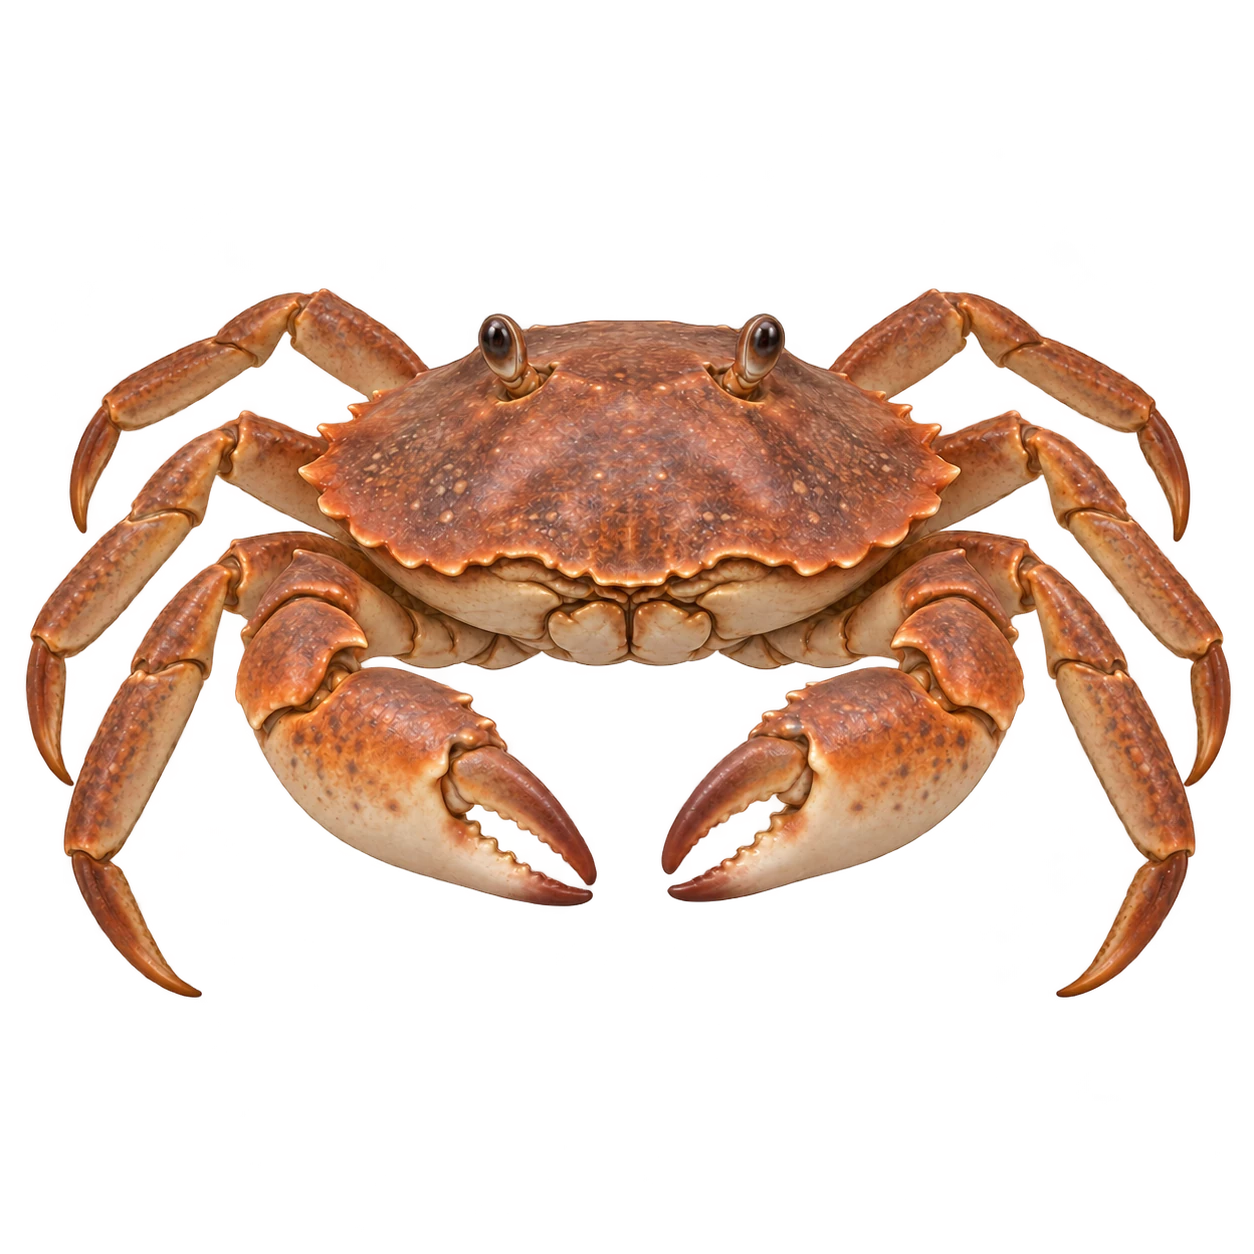
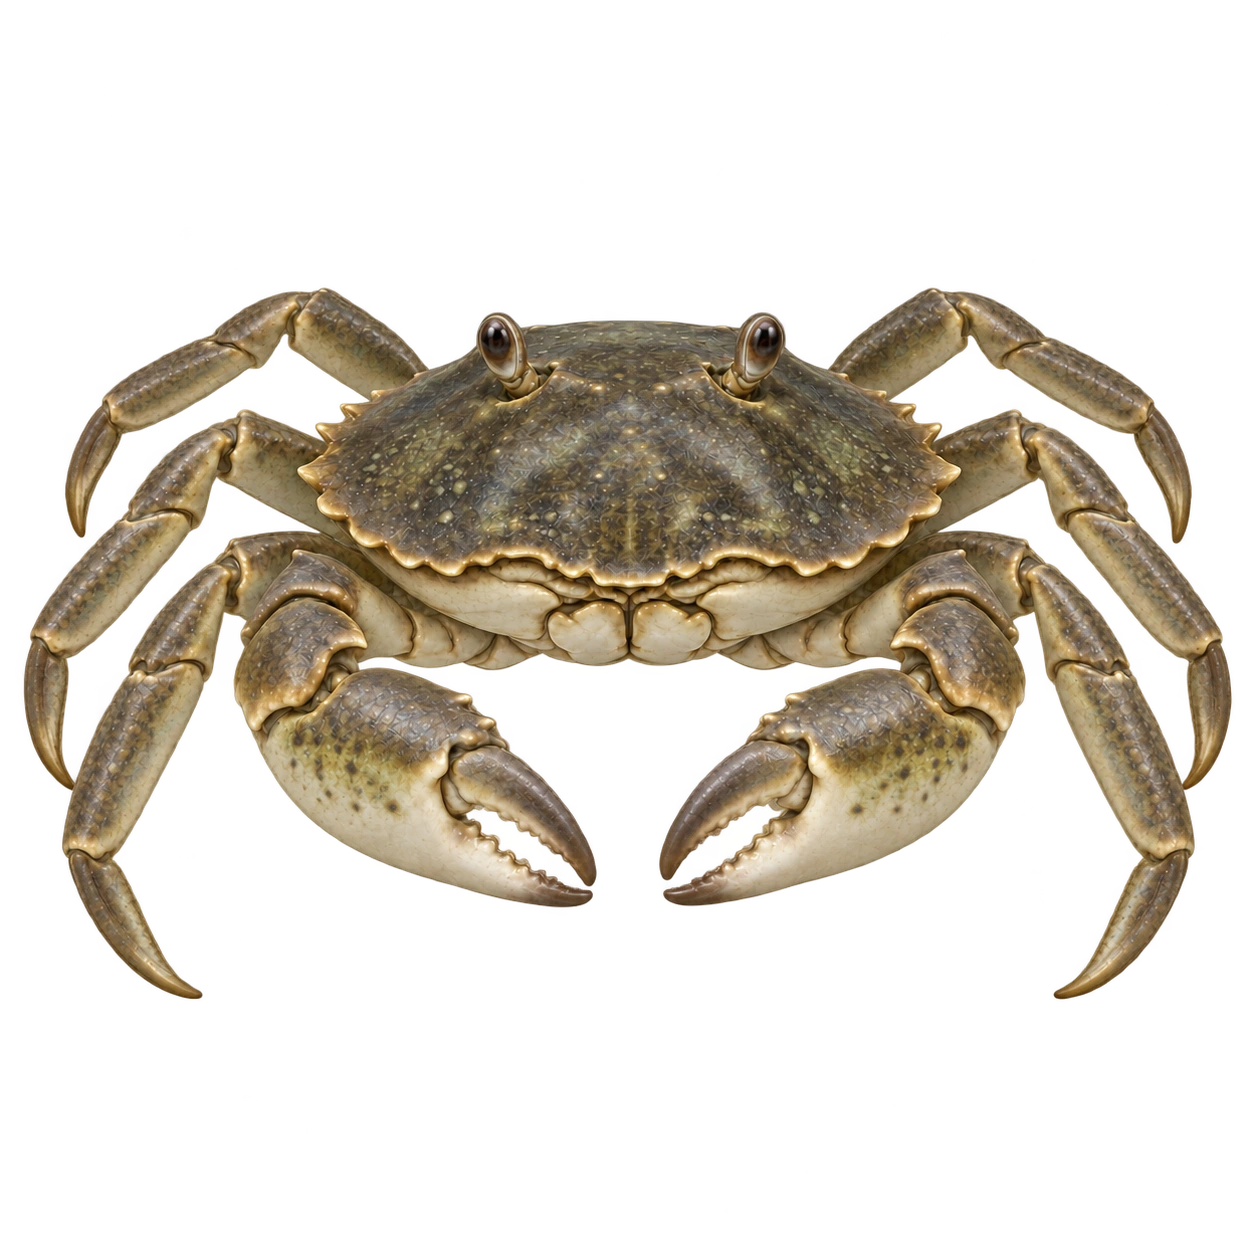
Refine glass layout and restore natural live crab colours

Changed region(s): [[0.0, 0.2177, 0.9952, 0.8086]]

diff --git a/src/glass-ui.css b/src/glass-ui.css
@@ -1,0 +1,76 @@
+
+/* Translucent framing; specimen art and its semantic colours stay untouched. */
+#app :is(.btn.secondary,.btn.icon-btn,.hud-btn,.hud-chip,.mission-footer,.motion-action-dock,.motion-photo-toolbar,.quest-panel,.studio-toolbar){background:rgba(255,253,245,.8);border-color:#ffffffb8;box-shadow:0 5px 18px #193e2e1c,inset 0 1px 0 #ffffffa0;backdrop-filter:blur(9px);-webkit-backdrop-filter:blur(9px)}
+#app .btn.primary{background:linear-gradient(135deg,#2d5542ed,#214633df);box-shadow:0 4px 14px #163b2b24;border:1px solid #aec5a77a}
+#app .topbar{background:#fbfaf3d9;backdrop-filter:blur(10px);-webkit-backdrop-filter:blur(10px)}
+#app #main.mission-page .mission-guide{background:#fffdf5c9;border-color:#ffffff9c;box-shadow:0 5px 16px #173d4014;backdrop-filter:blur(9px);-webkit-backdrop-filter:blur(9px)}
+dialog:not(:has(.creative-studio,.research-diary,.story-video)){background:#fffdf5f0;border-color:#ffffffcc;box-shadow:0 18px 48px #163b2b33;backdrop-filter:blur(12px);-webkit-backdrop-filter:blur(12px)}
+#app :is(.top-actions,.dialog-actions,.panel-tabs){gap:10px;flex-wrap:wrap}
+@media(prefers-reduced-transparency:reduce){#app :is(.btn.secondary,.btn.icon-btn,.hud-btn,.hud-chip,.mission-footer,.mission-guide){background:#fffdf5}}
+
+#app #main#main.commission-page .request-card{background:#fffbeddb;border-color:#ffffffbf;box-shadow:0 12px 32px #193e2e24;backdrop-filter:blur(10px);-webkit-backdrop-filter:blur(10px)}
+#app #main#main :is(.btn.secondary,.btn.icon-btn,.hud-btn,.commission-tabs .btn:not(.selected),.deck-nav .btn){background:#fffdf5cc;border-color:#ffffffb3;box-shadow:0 4px 14px #193e2e1c;backdrop-filter:blur(8px);-webkit-backdrop-filter:blur(8px)}
+@media(max-width:600px){#app .map-next{bottom:124px;right:10px;max-width:calc(100% - 20px)}#app .map-next>.btn{white-space:normal;max-width:100%}}
+#app #main#main.commission-page .commission-layout{background:#fffbeddb;border-color:#ffffffbf;box-shadow:0 12px 32px #193e2e24;backdrop-filter:blur(10px);-webkit-backdrop-filter:blur(10px)}
+#app #main#main.commission-page .request-card{background:transparent;box-shadow:none;backdrop-filter:none;-webkit-backdrop-filter:none}
+#app .deck-nav .deck-chips{min-width:0;overflow-x:auto;overflow-y:hidden;flex:1 1 0;scrollbar-width:thin}
+#app .deck-nav>.btn{flex-shrink:0}
+#app :is(.guide-buddy,.commission-feedback):not(.open)>[data-npc-audio]{display:none}
+#app :is(.guide-buddy,.commission-feedback).open>[data-npc-audio]{position:absolute;bottom:calc(100% + 8px);left:0;z-index:5;width:260px;max-width:calc(100vw - 32px);padding:10px;background:#fffdf5f5;border:1px solid #b7c8ad;border-radius:14px;box-shadow:0 8px 24px #193e2e33}
+#app .commission-page .commission-feedback .buddy-toggle{height:56px;min-height:56px;width:56px;min-width:56px}
+#app .commission-page .commission-feedback .buddy-toggle img{max-height:56px;width:auto}
+@media(max-width:600px){#app #main#main.commission-page{padding-bottom:144px!important}#app .commission-page .commission-feedback{bottom:80px!important;left:calc(50% - 28px)!important}#app .ending-screen{max-width:100%;overflow-x:hidden}}
+
+#app :is(.guide-buddy,.commission-feedback) p [data-npc-audio]{display:flex;align-items:center;flex-wrap:wrap;gap:6px;border-top:1px solid #b7c8ad;padding-top:8px;margin-top:8px}
+#app #main :is(.request-card,.client-card,.animal-card,.clue-card,.evidence-panel,.part-card,.settings-card){border-radius:18px}
+#app #main :is(.record-options,.choices,.card-pool,.panel-tabs){gap:10px}
+/* Reserve a separate footer lane; content scrolls inside the paper above it. */
+#app #main#main.commission-page{padding-bottom:94px!important}
+#app #main#main .deck-nav{display:grid!important;grid-template-columns:auto minmax(0,1fr) auto;gap:10px!important;overflow:hidden}
+#app #main#main .deck-nav>.deck-count{display:none}
+#app #main#main .deck-chips{overflow:hidden;min-width:0;max-width:100%}
+#app #main#main .request-parts{min-height:0;overflow:auto;overscroll-behavior:contain}
+#app #main#main .motion-start{inset:0 0 62px;min-height:0}
+#app #main#main .design-bench .sketch-actions{position:relative;inset:auto;clear:both;flex:none;margin-top:12px;gap:10px}
+@media(max-width:600px){
+ #app #main#main.commission-page{height:auto!important;min-height:100dvh;padding-bottom:24px!important;overflow:visible}
+ #app #main#main.commission-page .commission-layout{height:auto;max-height:none;min-height:0}
+ #app #main#main.commission-page :is(.request-deck,.request-parts,.request-card){height:auto;max-height:none;overflow:visible}
+ #app #main#main.commission-page .commission-footer{position:relative;inset:auto;display:flex;flex-wrap:wrap;gap:12px;padding-top:12px!important}
+ #app #main#main.commission-page .commission-feedback{position:relative;left:auto!important;bottom:auto!important;width:56px;margin:12px auto!important}
+ #app #main#main.mission-page .mission-footer{position:sticky;inset:auto;bottom:0;display:flex;flex-wrap:wrap;gap:10px;padding:8px!important;background:#fffdf5eb}
+ #app #main#main.mission-page .activity-workspace{max-height:none;height:auto;overflow:visible}
+ #app #main#main.mission-page{height:auto!important;overflow:visible;min-height:100dvh;padding-bottom:12px!important}
+ #app #main#main .design-bench{height:auto;min-height:420px;overflow:visible}
+ #app .map-next{bottom:238px;right:10px}
+ #app .map-page .village-resident{transform:translate(-50%,-155%)}
+ #app #main.museum-page{padding-top:76px!important}
+ #app .ending-page{overflow-x:hidden;max-width:100%}
+}
+#app #main#main .motion-start-button{inset:auto;left:50%;top:45%;transform:translate(-50%,-50%);width:180px;max-width:70%;height:100px;min-height:0;padding:8px;border-radius:18px;background:#183c2ed9;color:#fffbed;z-index:2}
+#app #main#main .motion-start-button:hover{transform:translate(-50%,-50%)}
+/* A filtered ancestor would trap fixed footer controls inside the paper. */
+#app #main#main.commission-page .commission-layout{backdrop-filter:none;-webkit-backdrop-filter:none}
+#app #main#main .motion-start-button{left:12px;top:12px;transform:none;width:140px;height:70px;max-width:45%;font-size:16px}
+#app #main#main .motion-start-button:hover{transform:none}
+#app #main#main .motion-play-disc{width:30px;height:30px}
+@media(max-height:650px) and (min-width:601px){#app .map-page .village-resident{transform:translate(-50%,-150%)}}
+@media(max-width:600px){
+ #app #main#main.mission-page .mission-footer{position:relative;bottom:auto}
+ #app #main#main .design-bench{position:relative;inset:auto;width:100%;height:auto;padding-bottom:100px}
+ #app #main#main.museum-page{padding-top:120px!important}
+}
+@media(max-width:600px){
+ #app #main#main.museum-page [data-action=ending]{position:fixed;top:72px;left:16px;right:16px;width:calc(100% - 32px);z-index:12}
+ #app #main#main .field-notes{box-sizing:border-box;max-width:calc(100vw - 24px);left:12px;right:12px}
+ #app #main#main .mission-footer>div{display:flex;flex-wrap:wrap;max-width:100%;min-width:0}
+ #app #main#main .activity-workspace{margin-bottom:24px}
+ #app .final-record{min-width:0;width:100%;max-width:100%;box-sizing:border-box;overflow-wrap:anywhere}
+ #app .final-stages{display:flex;flex-wrap:wrap;min-width:0}
+}
+@media(max-height:650px) and (min-width:601px){#app .map-page .village-resident{transform:translate(10%,-100%)}}
+@media(max-width:600px){
+ #app #main#main.mission-page.stage-3 .mission-footer{margin-top:24px!important}
+ #app #main#main .design-bench .sketch-actions{margin-top:24px}
+ #app #main#main{overflow-x:clip}
+}

diff --git a/src/adventure-app.js b/src/adventure-app.js
@@ -16,7 +16,7 @@ import {createVillage} from './village.js';
 import {createNavigation} from './navigation.js';
 import {playSound,silence,playMusic,setMusicVolume,setSoundVolume} from './audio.js';
 import {installNpcNarration} from './npc-narration.js';
-if(typeof MutationObserver!=='undefined')installNpcNarration({selector:'.guide-buddy,.commission-feedback',src:'assets/audio/npc-welcome.mp3',text:'안녕! 나는 모리야. 동물의 몸과 움직임을 자세히 살펴보고, 찾은 특징으로 기록을 복구해 보자. 네가 그렇게 생각한 까닭도 함께 들려줘!',enabled:()=>s.soundEnabled,volume:()=>s.soundVolume??.8,hold:()=>{silence();playMusic(null);return syncMusic;}});
+if(typeof MutationObserver!=='undefined')installNpcNarration({selector:'.guide-buddy>p:not([data-npc-caption]),.commission-feedback>p:not([data-npc-caption])',src:'assets/audio/npc-welcome.mp3',text:'안녕! 나는 모리야. 동물의 몸과 움직임을 자세히 살펴보고, 찾은 특징으로 기록을 복구해 보자. 네가 그렇게 생각한 까닭도 함께 들려줘!',enabled:()=>s.soundEnabled,volume:()=>s.soundVolume??.8,hold:()=>{silence();playMusic(null);return syncMusic;}});
 import {enableDrag,dropData} from './drag.js';
 import {can3d,mount3d,disable3d,warm3d} from './view3d.js';
 import {COMMISSIONS,ensureCampaign,campaignDraft,campaignDone,campaignOpen,chooseCommission,claimCommission,claimRequest,campaignHint,runCommissionTrial,restoredPlaces,campaignReport,requestParts,requestCards,requestGap,firstOpenCard} from './campaign.js';

diff --git a/index.html b/index.html
@@ -44,6 +44,7 @@
 <link rel="stylesheet" href="./src/responsive.css">
 <link rel="stylesheet" href="./src/museum-notes.css">
 <link rel="stylesheet" href="./src/request-sheet.css">
+  <link rel="stylesheet" href="./src/glass-ui.css">
 </head>
 <body>
   <a class="skip-link" href="#main">본문으로 이동</a>
